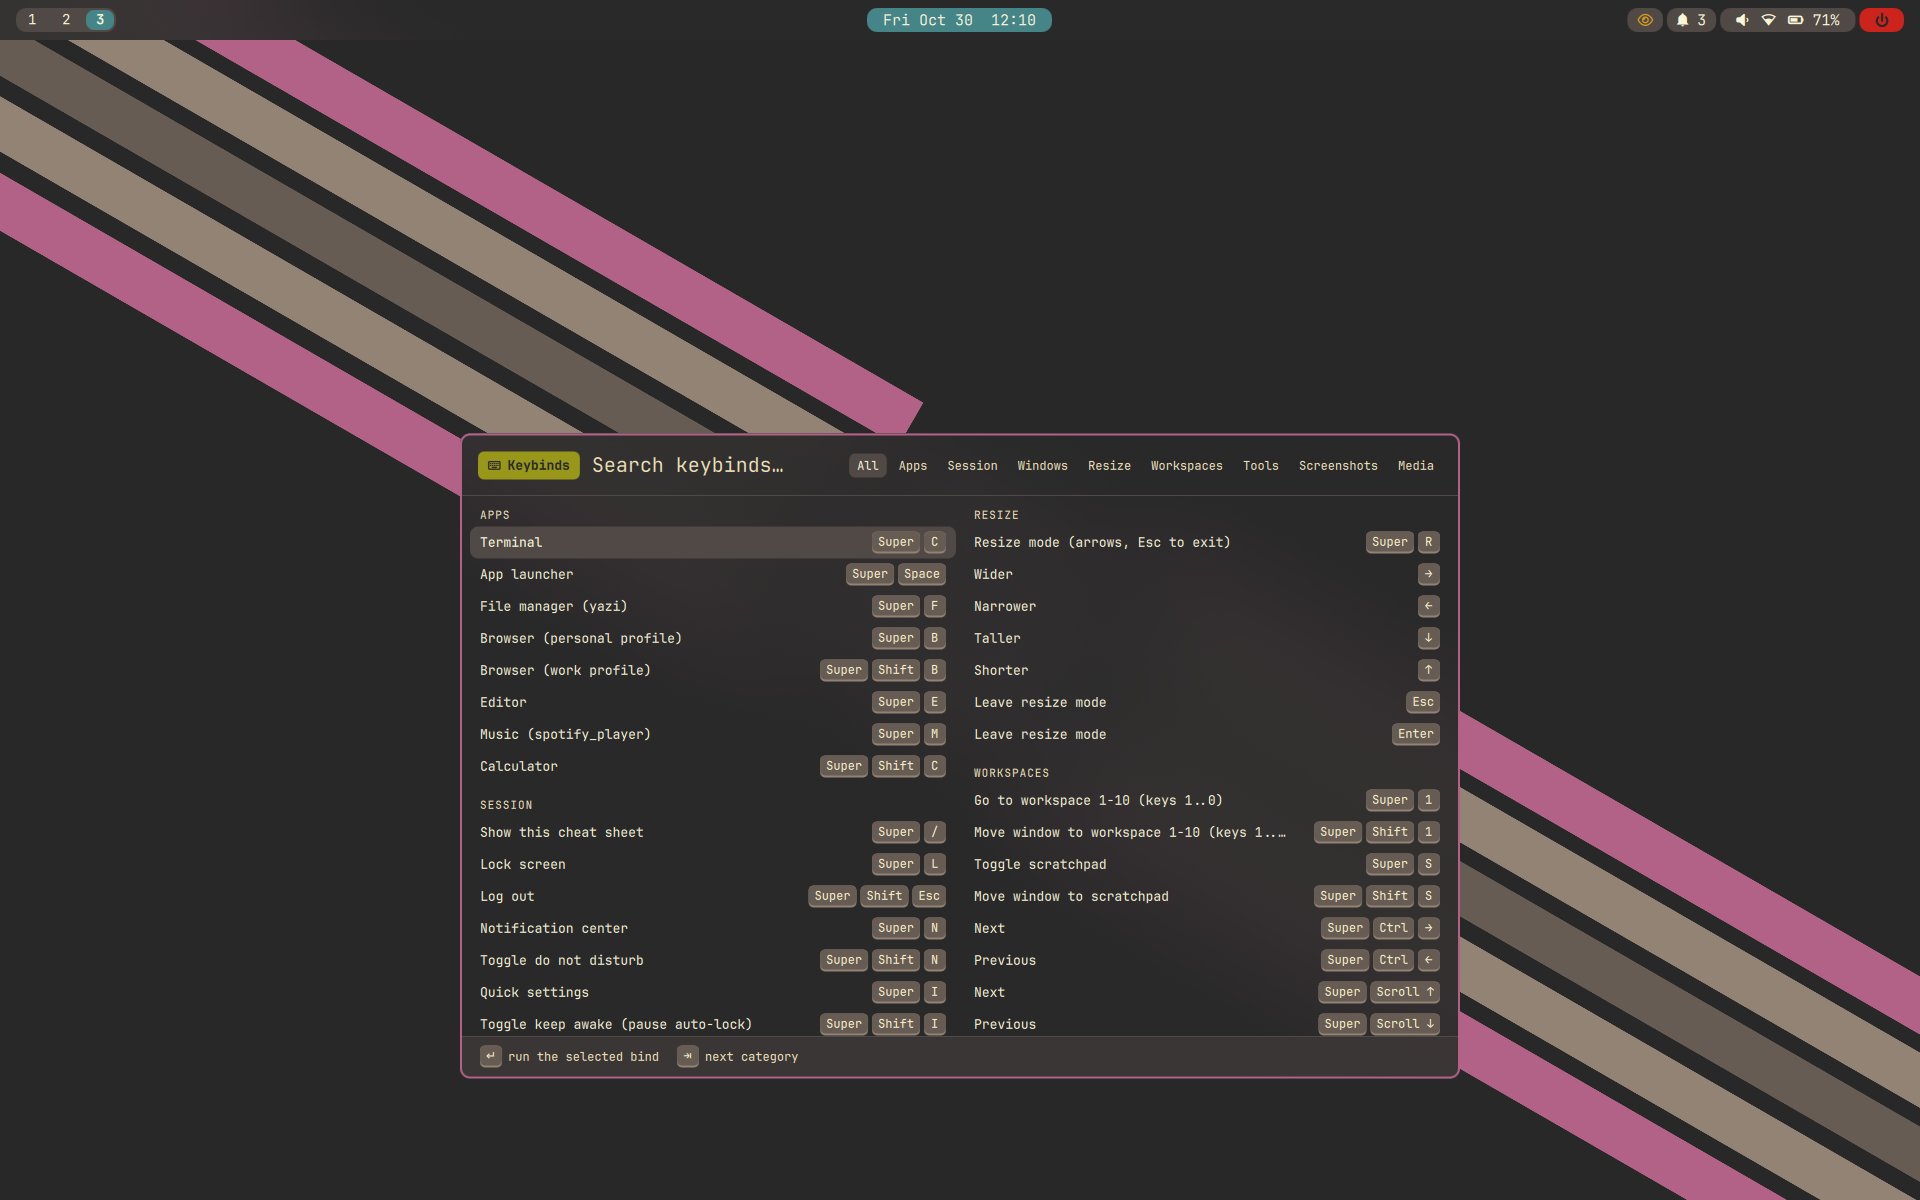
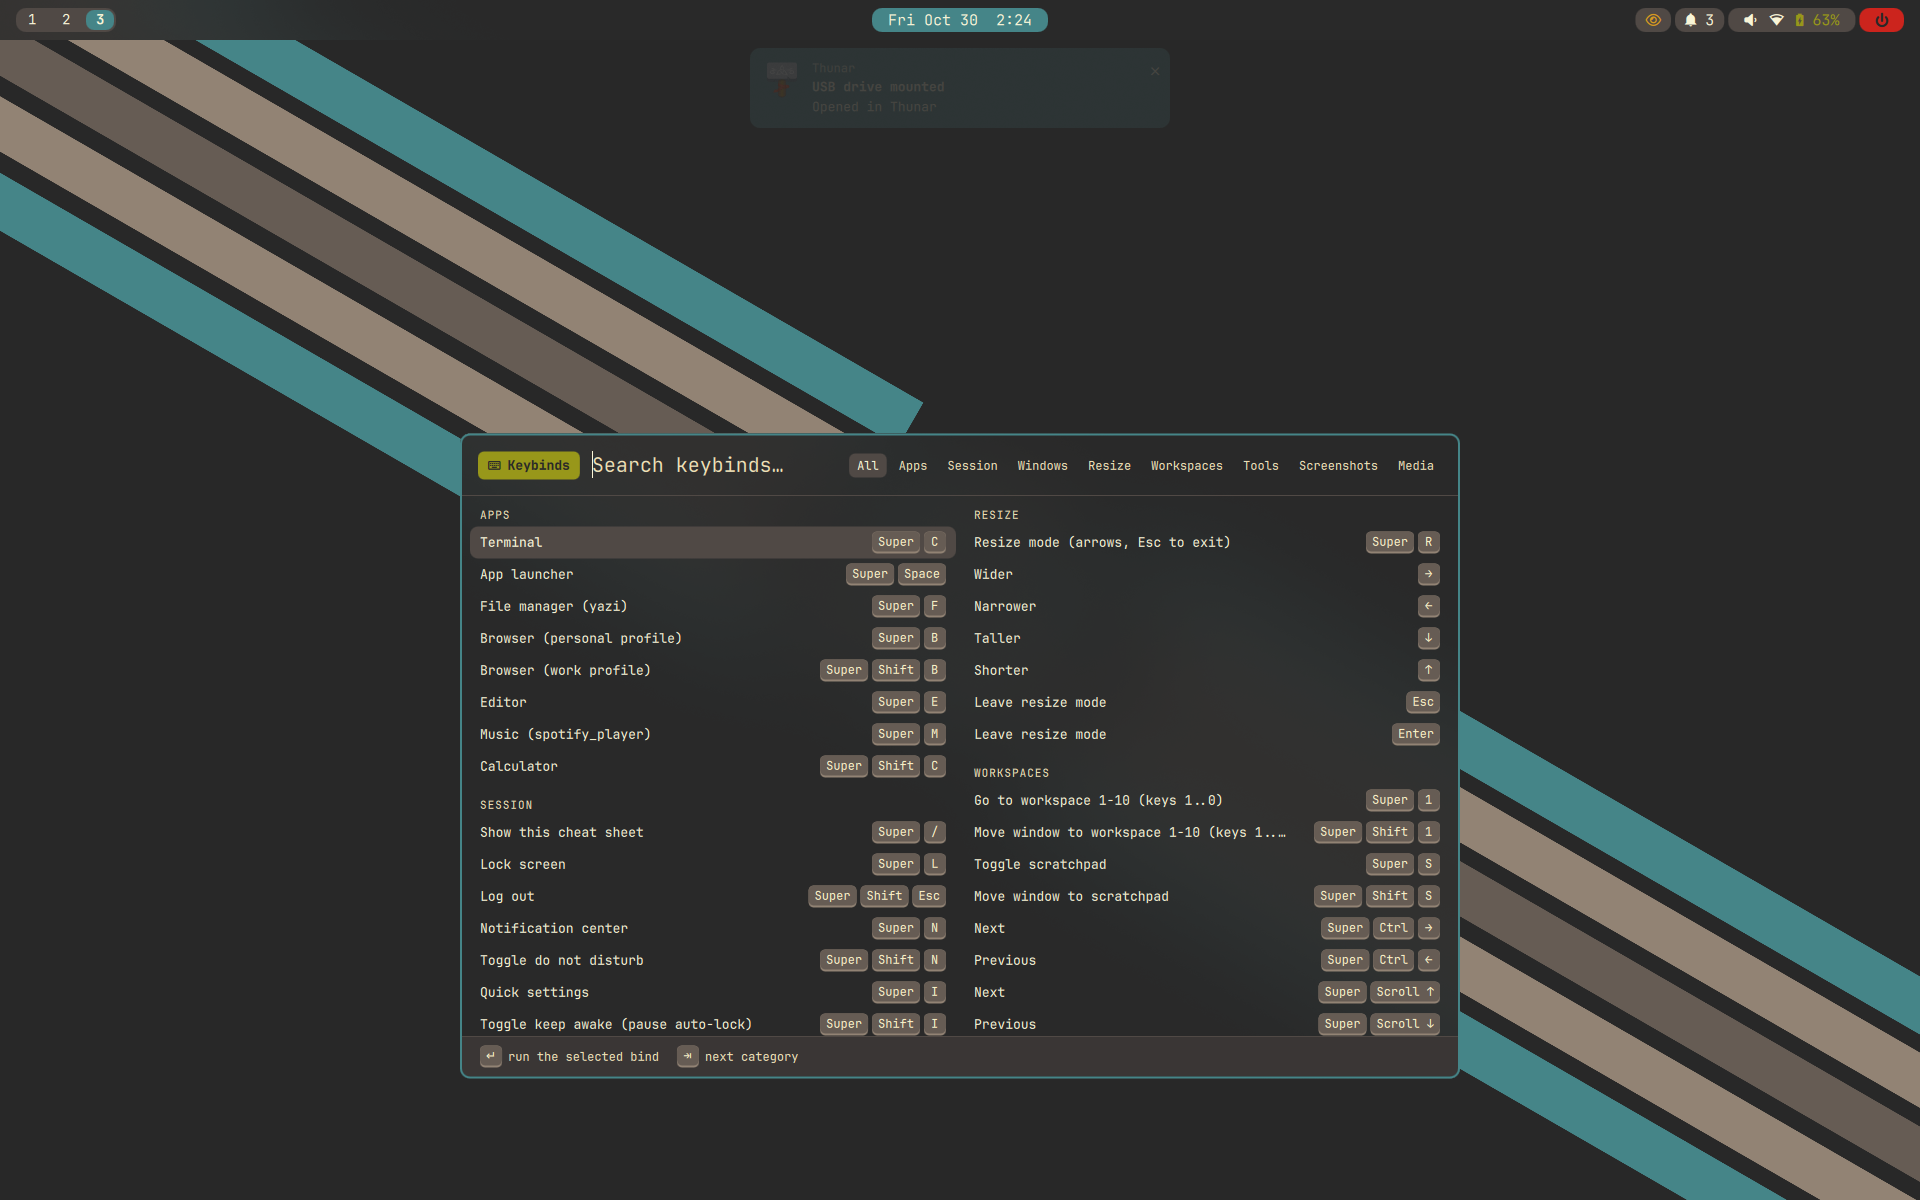
new screenshots

diff --git a/README.md b/README.md
@@ -54,8 +54,8 @@ Captured on the real desktop by `gentle-screenshots`, one set per theme in the f
 <td align="center" valign="top"><a href="media/screenshots/gruvbox-dark/1-desktop.png"><img src="media/screenshots/gruvbox-dark/1-desktop.png" width="390" alt="gruvbox-dark: desktop"></a><br><sub><b>gruvbox-dark</b></sub></td>
 </tr>
 <tr>
-<td align="center" valign="top"><a href="media/screenshots/outrun-dark/1-desktop.png"><img src="media/screenshots/outrun-dark/1-desktop.png" width="390" alt="outrun-dark: desktop"></a><br><sub><b>outrun-dark</b></sub></td>
-<td align="center" valign="top"><a href="media/screenshots/tarot/1-desktop.png"><img src="media/screenshots/tarot/1-desktop.png" width="390" alt="tarot: desktop"></a><br><sub><b>tarot</b></sub></td>
+<td align="center" valign="top"><a href="media/screenshots/nord/1-desktop.png"><img src="media/screenshots/nord/1-desktop.png" width="390" alt="nord: desktop"></a><br><sub><b>nord</b></sub></td>
+<td align="center" valign="top"><a href="media/screenshots/pastelon-de-amarillos-dark/1-desktop.png"><img src="media/screenshots/pastelon-de-amarillos-dark/1-desktop.png" width="390" alt="pastelon-de-amarillos-dark: desktop"></a><br><sub><b>pastelon-de-amarillos-dark</b></sub></td>
 </tr>
 </table>
 
@@ -94,34 +94,34 @@ Captured on the real desktop by `gentle-screenshots`, one set per theme in the f
 </details>
 
 <details>
-<summary><b>outrun-dark</b>: more screenshots</summary>
+<summary><b>nord</b>: more screenshots</summary>
 
 <table>
 <tr>
-<td align="center" valign="top"><a href="media/screenshots/outrun-dark/2-launcher.png"><img src="media/screenshots/outrun-dark/2-launcher.png" width="250" alt="outrun-dark: launcher"></a><br><sub>launcher</sub></td>
-<td align="center" valign="top"><a href="media/screenshots/outrun-dark/3-tiled.png"><img src="media/screenshots/outrun-dark/3-tiled.png" width="250" alt="outrun-dark: tiled"></a><br><sub>tiled</sub></td>
-<td align="center" valign="top"><a href="media/screenshots/outrun-dark/4-quick-settings.png"><img src="media/screenshots/outrun-dark/4-quick-settings.png" width="250" alt="outrun-dark: quick settings"></a><br><sub>quick settings</sub></td>
+<td align="center" valign="top"><a href="media/screenshots/nord/2-launcher.png"><img src="media/screenshots/nord/2-launcher.png" width="250" alt="nord: launcher"></a><br><sub>launcher</sub></td>
+<td align="center" valign="top"><a href="media/screenshots/nord/3-tiled.png"><img src="media/screenshots/nord/3-tiled.png" width="250" alt="nord: tiled"></a><br><sub>tiled</sub></td>
+<td align="center" valign="top"><a href="media/screenshots/nord/4-quick-settings.png"><img src="media/screenshots/nord/4-quick-settings.png" width="250" alt="nord: quick settings"></a><br><sub>quick settings</sub></td>
 </tr>
 <tr>
-<td align="center" valign="top"><a href="media/screenshots/outrun-dark/5-notifications.png"><img src="media/screenshots/outrun-dark/5-notifications.png" width="250" alt="outrun-dark: notifications"></a><br><sub>notifications</sub></td>
-<td align="center" valign="top"><a href="media/screenshots/outrun-dark/6-cheatsheet.png"><img src="media/screenshots/outrun-dark/6-cheatsheet.png" width="250" alt="outrun-dark: cheatsheet"></a><br><sub>cheatsheet</sub></td>
+<td align="center" valign="top"><a href="media/screenshots/nord/5-notifications.png"><img src="media/screenshots/nord/5-notifications.png" width="250" alt="nord: notifications"></a><br><sub>notifications</sub></td>
+<td align="center" valign="top"><a href="media/screenshots/nord/6-cheatsheet.png"><img src="media/screenshots/nord/6-cheatsheet.png" width="250" alt="nord: cheatsheet"></a><br><sub>cheatsheet</sub></td>
 </tr>
 </table>
 
 </details>
 
 <details>
-<summary><b>tarot</b>: more screenshots</summary>
+<summary><b>pastelon-de-amarillos-dark</b>: more screenshots</summary>
 
 <table>
 <tr>
-<td align="center" valign="top"><a href="media/screenshots/tarot/2-launcher.png"><img src="media/screenshots/tarot/2-launcher.png" width="250" alt="tarot: launcher"></a><br><sub>launcher</sub></td>
-<td align="center" valign="top"><a href="media/screenshots/tarot/3-tiled.png"><img src="media/screenshots/tarot/3-tiled.png" width="250" alt="tarot: tiled"></a><br><sub>tiled</sub></td>
-<td align="center" valign="top"><a href="media/screenshots/tarot/4-quick-settings.png"><img src="media/screenshots/tarot/4-quick-settings.png" width="250" alt="tarot: quick settings"></a><br><sub>quick settings</sub></td>
+<td align="center" valign="top"><a href="media/screenshots/pastelon-de-amarillos-dark/2-launcher.png"><img src="media/screenshots/pastelon-de-amarillos-dark/2-launcher.png" width="250" alt="pastelon-de-amarillos-dark: launcher"></a><br><sub>launcher</sub></td>
+<td align="center" valign="top"><a href="media/screenshots/pastelon-de-amarillos-dark/3-tiled.png"><img src="media/screenshots/pastelon-de-amarillos-dark/3-tiled.png" width="250" alt="pastelon-de-amarillos-dark: tiled"></a><br><sub>tiled</sub></td>
+<td align="center" valign="top"><a href="media/screenshots/pastelon-de-amarillos-dark/4-quick-settings.png"><img src="media/screenshots/pastelon-de-amarillos-dark/4-quick-settings.png" width="250" alt="pastelon-de-amarillos-dark: quick settings"></a><br><sub>quick settings</sub></td>
 </tr>
 <tr>
-<td align="center" valign="top"><a href="media/screenshots/tarot/5-notifications.png"><img src="media/screenshots/tarot/5-notifications.png" width="250" alt="tarot: notifications"></a><br><sub>notifications</sub></td>
-<td align="center" valign="top"><a href="media/screenshots/tarot/6-cheatsheet.png"><img src="media/screenshots/tarot/6-cheatsheet.png" width="250" alt="tarot: cheatsheet"></a><br><sub>cheatsheet</sub></td>
+<td align="center" valign="top"><a href="media/screenshots/pastelon-de-amarillos-dark/5-notifications.png"><img src="media/screenshots/pastelon-de-amarillos-dark/5-notifications.png" width="250" alt="pastelon-de-amarillos-dark: notifications"></a><br><sub>notifications</sub></td>
+<td align="center" valign="top"><a href="media/screenshots/pastelon-de-amarillos-dark/6-cheatsheet.png"><img src="media/screenshots/pastelon-de-amarillos-dark/6-cheatsheet.png" width="250" alt="pastelon-de-amarillos-dark: cheatsheet"></a><br><sub>cheatsheet</sub></td>
 </tr>
 </table>
 
